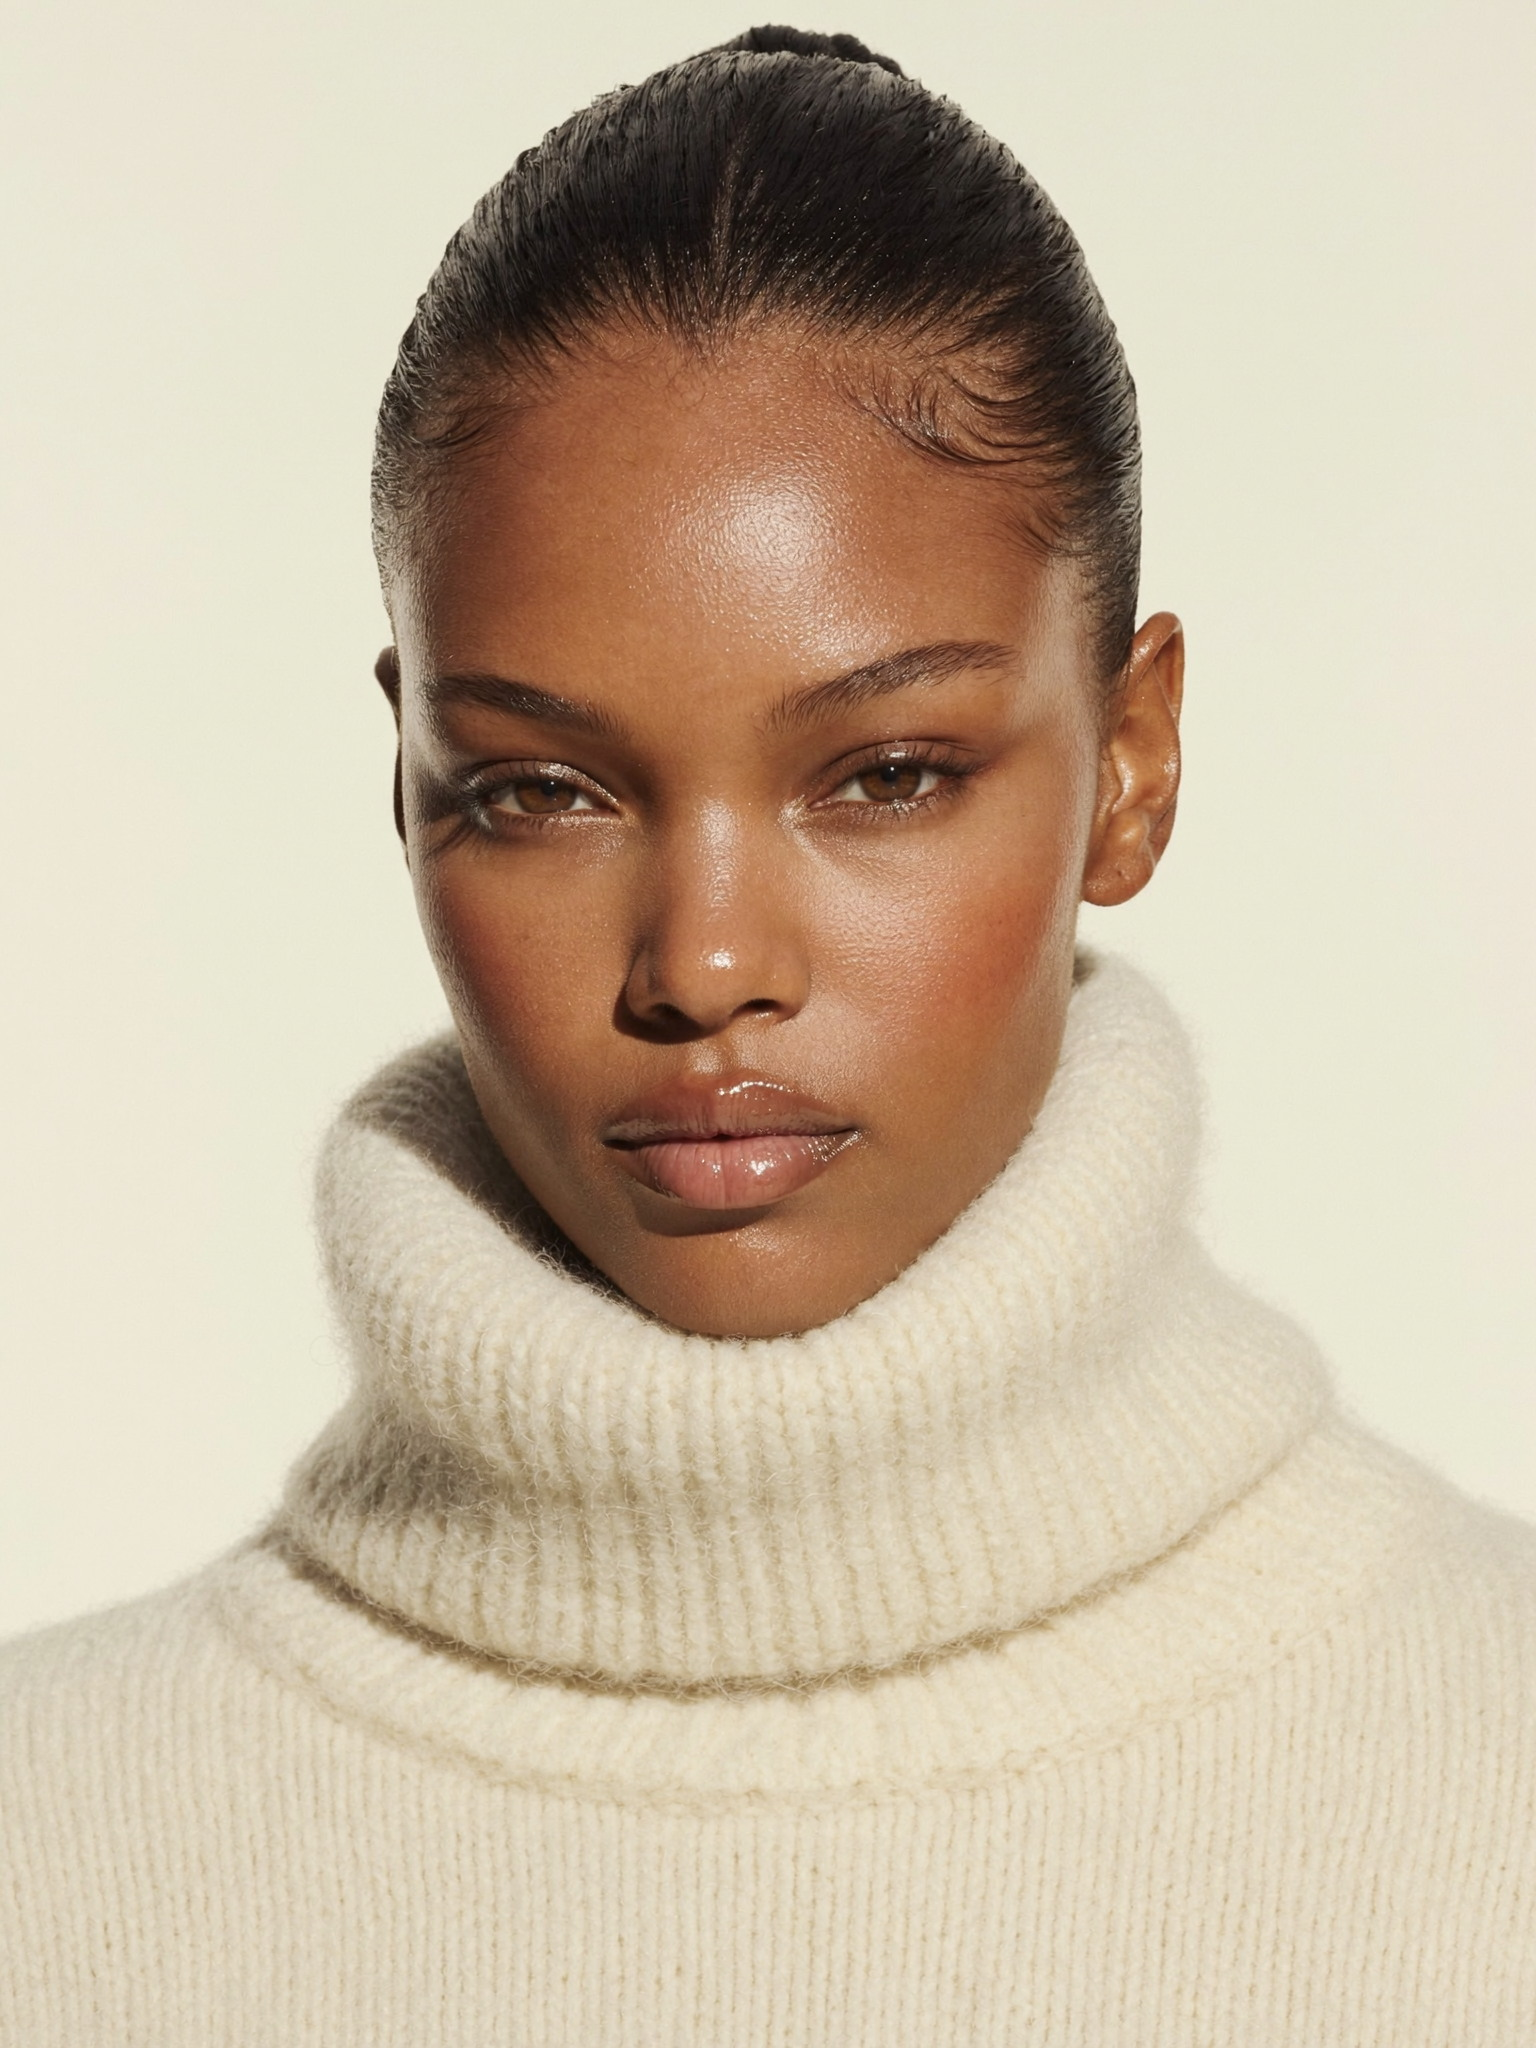
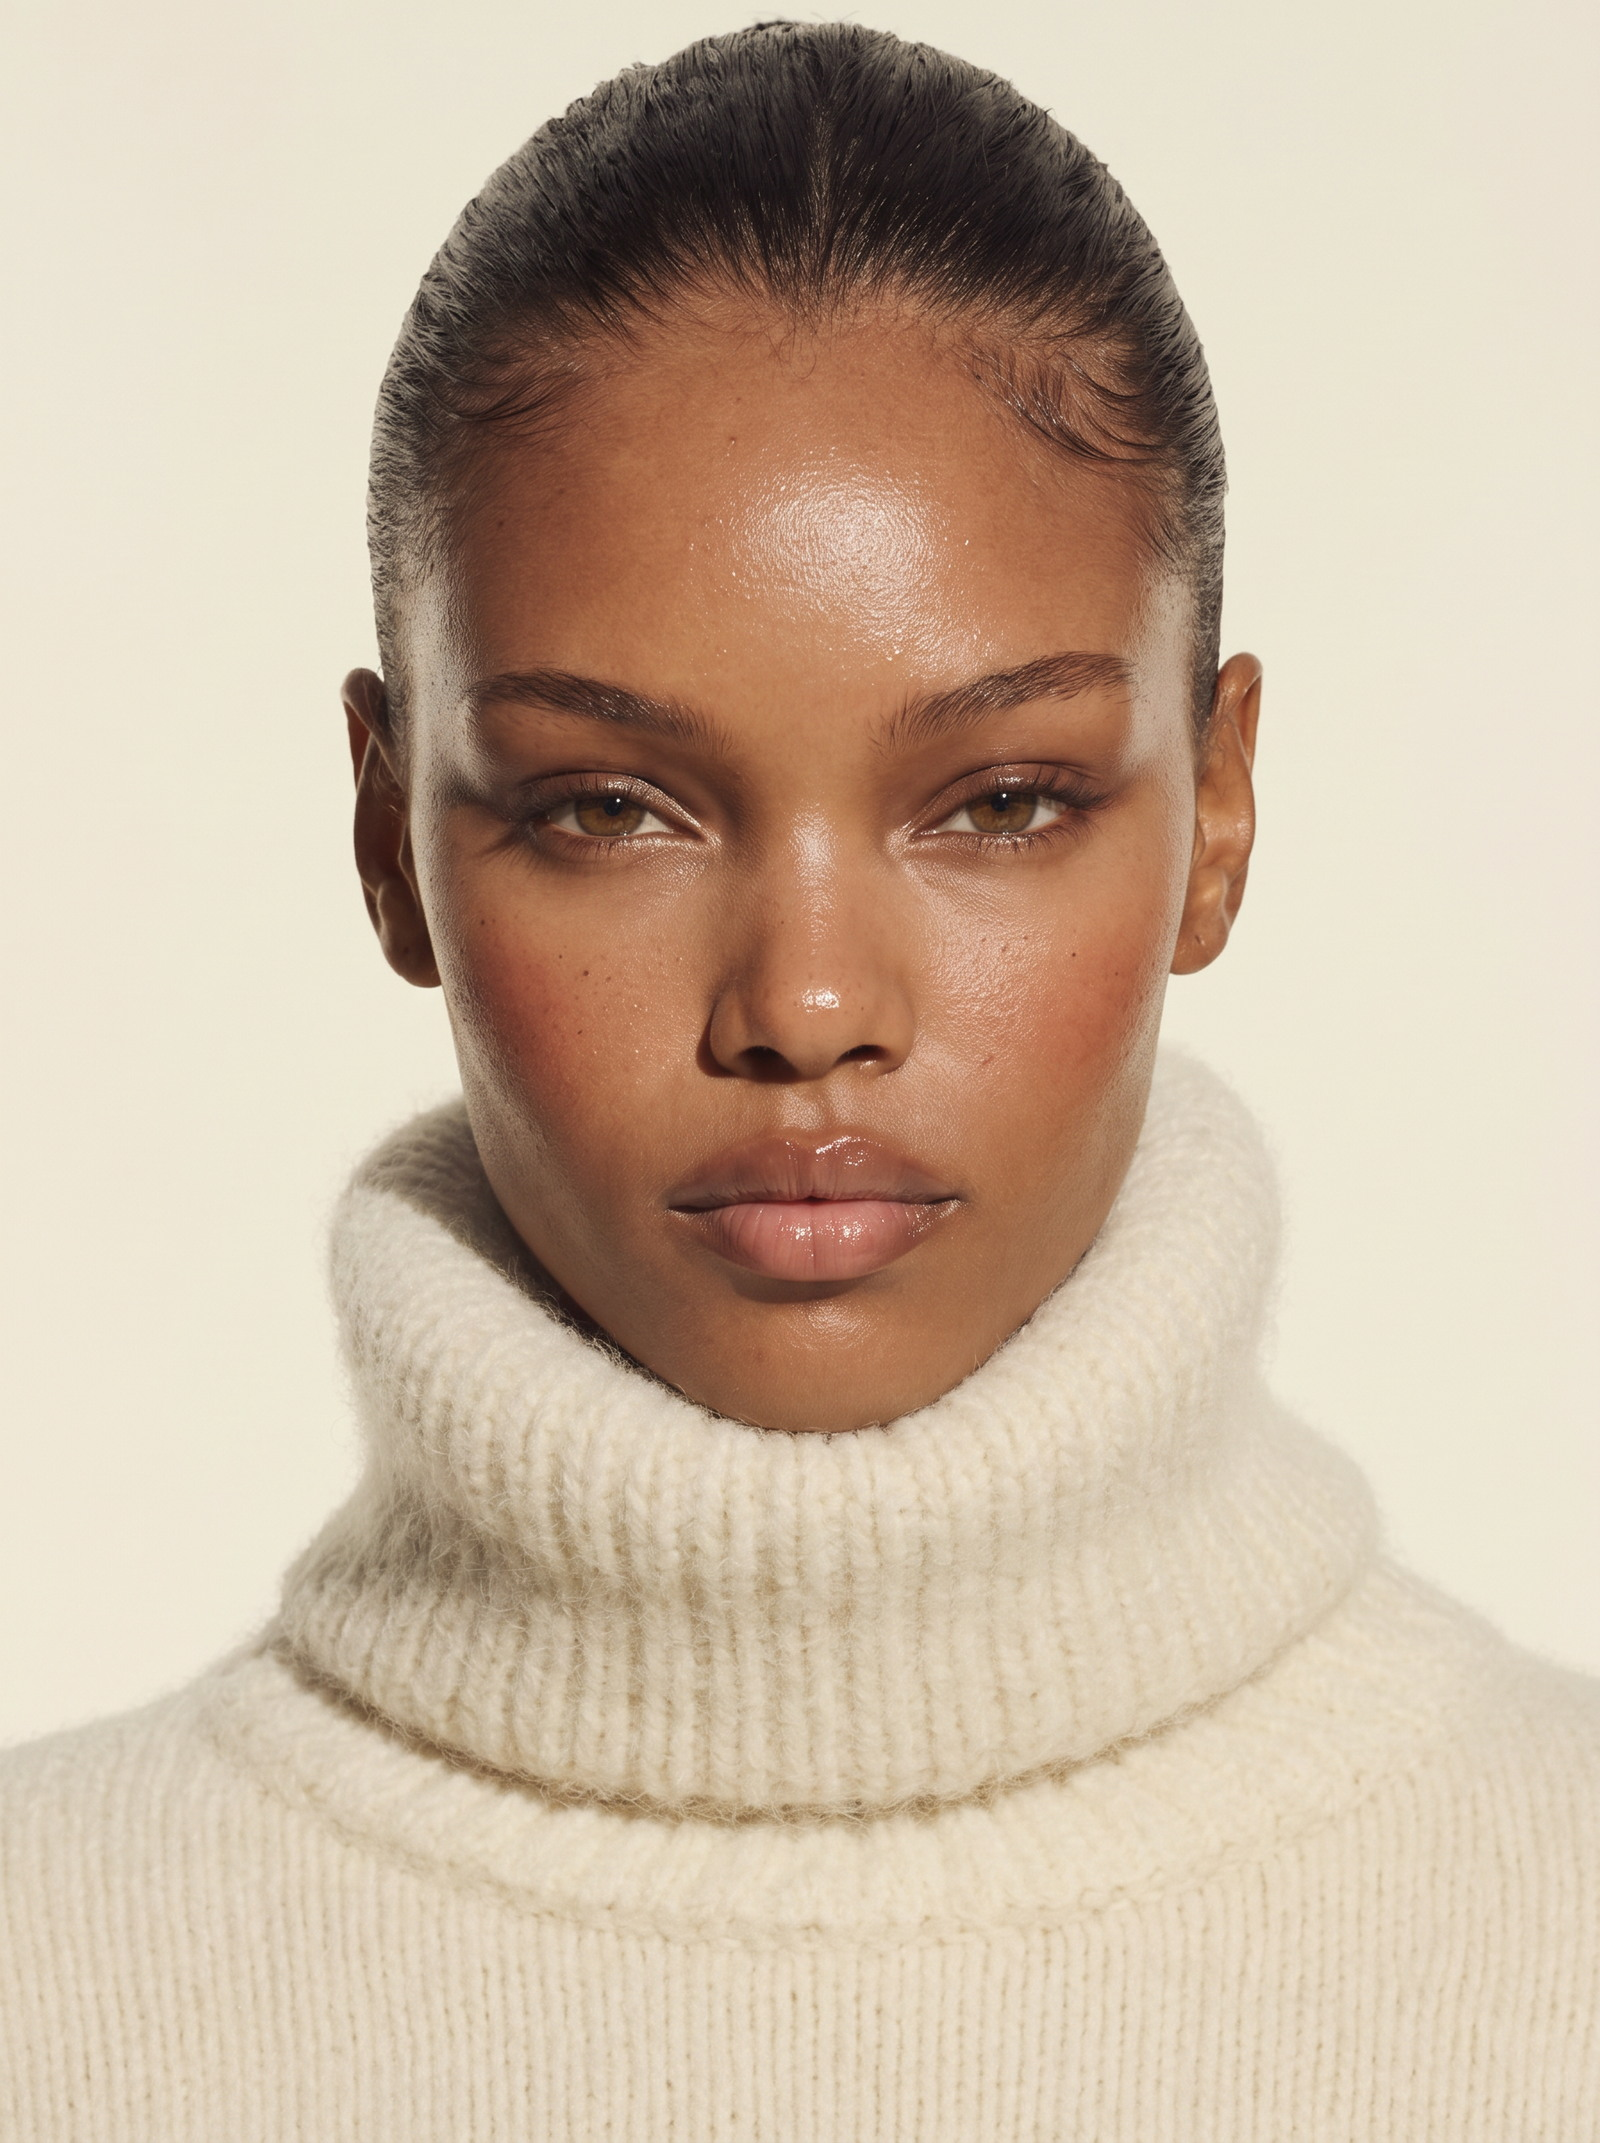
Raw-skin Argile set, tighter Ref 04 card, New York and Miami
Regenerate the campaign from the chosen portrait with an explicit
unretouched-skin brief: visible pores, freckles and a satin finish in
place of the glossy filtered look, with a soft natural flush. Reshoot
her casting card as a head-and-shoulders headshot so her face is the
same size as the other three references. The studio is now listed as
New York and Miami in the hero, footer and mobile menu.

diff --git a/index.html b/index.html
@@ -256,7 +256,7 @@
     <a class="big" href="#/casting">Casting</a>
     <a class="big" href="#/start">Enquire</a>
   </nav>
-  <div style="margin-top:auto"><span class="lb">hello@grade.studio &nbsp;&middot;&nbsp; New York</span></div>
+  <div style="margin-top:auto"><span class="lb">hello@grade.studio &nbsp;&middot;&nbsp; New York &nbsp;&middot;&nbsp; Miami</span></div>
 </div>
 
 <main id="view"></main>
@@ -266,7 +266,7 @@
     <div>
       <div class="wm" style="margin-bottom:22px">Grad&eacute;</div>
       <p class="soft" style="max-width:34ch;font-size:14px">An image studio creating on-model campaigns for fashion, beauty and lifestyle brands.</p>
-      <address class="lb" style="margin-top:20px">hello@grade.studio<br>New York</address>
+      <address class="lb" style="margin-top:20px">hello@grade.studio<br>New York &nbsp;&middot;&nbsp; Miami</address>
     </div>
     <div><h5 class="lb">Studio</h5><ul class="lb">
       <li><a class="u" href="#/work">Work</a></li><li><a class="u" href="#/process">Process</a></li>
@@ -332,7 +332,7 @@ const FACES=[
    looks:[{s:IMG.beauty},{s:'cc_1.jpg'},{s:'cc_3.jpg'},{s:'cc_4.jpg'}]},
   {ref:'04', portrait:'img_8.jpg', alt:'Casting reference 04',
    suited:'Lifestyle · Interiors · Editorial',
-   looks:[{s:'ar_1.jpg'},{s:'ar_3.jpg'},{s:'ar_4.jpg'},{s:'ar_2.jpg'},{s:'ar_5.jpg'},{s:'ar_6.jpg'}]}
+   looks:[{s:'ar_1.jpg'},{s:'ar_3.jpg'},{s:'ar_4.jpg'},{s:'ar_2.jpg'},{s:'ar_5.jpg'}]}
 ];
 
 const CREDS=['Casting handled in-house','Art direction included','Full commercial rights','Delivered in days'];
@@ -379,7 +379,7 @@ function homeView(){
   return `
   <section class="hero">
     <div class="hero-t">
-      <p class="lb rv" style="margin-bottom:26px">Image studio &nbsp;&middot;&nbsp; New York</p>
+      <p class="lb rv" style="margin-bottom:26px">Image studio &nbsp;&middot;&nbsp; New York &nbsp;&middot;&nbsp; Miami</p>
       <h1 class="d">The imagery your product <em>deserves.</em></h1>
       <p>Gradé creates on-model campaigns for fashion, beauty and lifestyle brands. Casting, styling and art direction, handled end to end.</p>
       <div class="hero-a"><a class="ln" href="#/start">Begin a project</a><a class="nv u" href="#/work">View the work</a></div>
